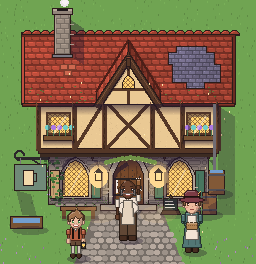
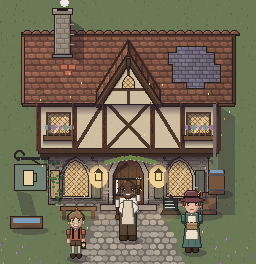
Mute the world palette: earthy, desaturated colours; liveliness from detail and light
Claude-Session: https://claude.ai/code/session_01NvFAa9nga9ook5zdC6nh3r

diff --git a/tools/concept_art/world_states.py b/tools/concept_art/world_states.py
@@ -88,7 +88,7 @@ def scene(state):
     ruined, before, after = state == "ruined", state == "before", state == "reclaimed"
 
     # ---------------- ground and cobbles
-    grass = (110, 168, 80) if not ruined else (120, 112, 104)
+    grass = (108, 132, 84) if not ruined else (120, 112, 104)
     d.rectangle((0, 0, W, H), fill=grass)
     for _ in range(1000):
         x, y = rnd.randrange(W), rnd.randrange(H)
@@ -107,11 +107,11 @@ def scene(state):
                 d.rounded_rectangle((xx, yy, xx + rnd.randrange(5, 8), yy + 4), 2, fill=shade(cob, rnd.choice([0.92, 1.0, 1.08])))
 
     # ---------------- palette: limewashed ochre plaster, dark oak, red clay tiles, rubble stone
-    plaster = (232, 204, 146) if not ruined else (176, 164, 140)
+    plaster = (214, 198, 164) if not ruined else (176, 164, 140)
     oak = (84, 56, 38) if not ruined else (62, 48, 40)
     stone = (152, 142, 128)
-    roof = (172, 70, 52) if not ruined else (118, 64, 54)
-    shutter = (70, 120, 96)
+    roof = (146, 86, 66) if not ruined else (118, 64, 54)
+    shutter = (94, 108, 96)
 
     # ground floor: rubble stone
     d.rectangle((48, 152, 208, 204), fill=stone, outline=INK)
@@ -144,7 +144,7 @@ def scene(state):
             d.polygon([(x0 + 2, 186), (x0 + 9, 186), (x0 + 4, 194)], fill=(150, 170, 180))
             d.polygon([(x0 - 12, 178), (x0 - 2, 182), (x0 - 4, 204), (x0 - 14, 200)], fill=shade(shutter, 0.7), outline=INK)  # shutter fallen
         else:
-            glass_pane(im, arch, (255, 214, 110), (150, 110, 60), INK)
+            glass_pane(im, arch, (232, 198, 132), (150, 110, 60), INK)
             sh = shutter if not (after and x0 == 62) else (196, 160, 110)        # one fresh, unpainted shutter
             d.rectangle((x0 - 12, 170, x0 - 3, 198), fill=sh, outline=INK); d.rectangle((x0 + 29, 170, x0 + 38, 198), fill=shutter, outline=INK)
             for xx in (x0 - 9, x0 + 32):
@@ -181,17 +181,17 @@ def scene(state):
                 for i, dy in enumerate((4, 11, 17)):
                     d.line([(x0 - 3, 112 + dy + i), (x0 + 27, 112 + dy - 3 + i)], fill=(140, 100, 64), width=4)
         else:
-            glass_pane(im, [(box[0], box[1]), (box[2], box[1]), (box[2], box[3]), (box[0], box[3])], (255, 214, 110), (150, 110, 60), oak)
+            glass_pane(im, [(box[0], box[1]), (box[2], box[1]), (box[2], box[3]), (box[0], box[3])], (232, 198, 132), (150, 110, 60), oak)
             d.rectangle(box, outline=oak, width=2)
         bc = (120, 84, 50) if not ruined else (80, 60, 44)
         d.rectangle((x0 - 3, 135, x0 + 27, 140), fill=bc, outline=INK)
         if before:
             for i in range(6):
-                d.ellipse((x0 - 2 + i * 5, 131, x0 + 2 + i * 5, 135), fill=rnd.choice([(220, 60, 60), (240, 200, 70), (230, 120, 160)]))
+                d.ellipse((x0 - 2 + i * 5, 131, x0 + 2 + i * 5, 135), fill=rnd.choice([(164, 84, 74), (196, 170, 108), (170, 124, 132)]))
         if after:
             for i in range(5):
                 d.line([(x0 + 1 + i * 6, 135), (x0 + 1 + i * 6, 129)], fill=(70, 120, 80))
-                d.ellipse((x0 - 1 + i * 6, 125, x0 + 3 + i * 6, 129), fill=rnd.choice([(170, 120, 230), (110, 210, 200)]))
+                d.ellipse((x0 - 1 + i * 6, 125, x0 + 3 + i * 6, 129), fill=rnd.choice([(150, 120, 176), (116, 164, 158)]))
 
     # ---------------- roof, top-down 3/4: front slope + a front gable whose slopes run away from us
     roofs.slope(im, [(24, 34), (232, 34), (232, 104), (24, 104)], roof, "tile", seed=2)
@@ -231,7 +231,7 @@ def scene(state):
     if ruined:
         d.polygon(gothic_arch(122, 134, 82, 88), fill=(36, 30, 34), outline=INK)
     else:
-        glass_pane(im, gothic_arch(122, 134, 82, 88), (255, 214, 110), (150, 110, 60), INK)
+        glass_pane(im, gothic_arch(122, 134, 82, 88), (232, 198, 132), (150, 110, 60), INK)
     roofs.bargeboards(im, (96, 107), (128, 58), (160, 107), oak)
 
     # ---------------- wrought-iron sign bracket with a scroll, hanging board
@@ -279,21 +279,21 @@ def scene(state):
             continue
         if after:
             d.ellipse((lx - 9, 165, lx + 9, 187), fill=(255, 226, 150))
-        d.rectangle((lx - 3, 172, lx + 3, 180), fill=(255, 214, 110) if before else (255, 200, 90), outline=INK)
+        d.rectangle((lx - 3, 172, lx + 3, 180), fill=(232, 198, 132) if before else (255, 200, 90), outline=INK)
         d.polygon([(lx - 4, 172), (lx + 4, 172), (lx, 168)], fill=iron)
     # harvest fair decorations
     if before:
         for i, x in enumerate(range(30, 226, 10)):
             y = 156 + int(4 * abs((x - 128) / 98))
-            d.polygon([(x, y), (x + 8, y), (x + 4, y + 7)], fill=[(220, 60, 60), (240, 200, 70), (70, 130, 200), (90, 170, 90)][i % 4])
+            d.polygon([(x, y), (x + 8, y), (x + 4, y + 7)], fill=[(164, 84, 74), (196, 170, 108), (98, 116, 140), (112, 134, 98)][i % 4])
         for wx in (92, 164):
             for k in range(5):
                 d.line([(wx + k - 2, 214), (wx + k * 2 - 4, 198)], fill=(214, 176, 80))
             d.ellipse((wx - 6, 192, wx + 6, 202), fill=(226, 190, 96))
-            d.line([(wx - 4, 206), (wx + 4, 206)], fill=(176, 50, 44), width=2)
+            d.line([(wx - 4, 206), (wx + 4, 206)], fill=(140, 70, 60), width=2)
         d.rectangle((196, 228, 218, 240), fill=(196, 150, 96), outline=INK)
         for k in range(4):
-            d.ellipse((198 + k * 4, 224, 202 + k * 4, 228), fill=(210, 50, 50))
+            d.ellipse((198 + k * 4, 224, 202 + k * 4, 228), fill=(160, 74, 62))
     if after:
         d.line([(116, 180), (116, 192)], fill=(240, 236, 228), width=2); d.point((116, 193), fill=(214, 176, 80))
         d.line([(140, 178), (140, 186)], fill=(90, 70, 50)); d.rectangle((139, 186, 141, 190), fill=(232, 224, 200))
@@ -317,11 +317,11 @@ def scene(state):
 
     # ---------------- mood grading
     if before:
-        grade(im, sat=1.12, bright=1.03, tint=(1.04, 1.0, 0.94))
+        grade(im, sat=0.8, bright=1.0, tint=(1.03, 1.0, 0.94))
     elif ruined:
-        grade(im, sat=0.45, bright=0.86, tint=(0.92, 0.95, 1.08))
+        grade(im, sat=0.32, bright=0.84, tint=(0.94, 0.96, 1.06))
     else:
-        grade(im, sat=0.95, bright=1.0, tint=(1.02, 0.99, 1.0))
+        grade(im, sat=0.7, bright=0.98, tint=(1.02, 0.99, 0.97))
     if ruined:  # the strange world creeping in stays vivid against the grey
         d = ImageDraw.Draw(im)
         prnd = random.Random(11)
@@ -468,7 +468,7 @@ if __name__ == "__main__":
 
 
 # ---------------------------------------------------------------- the architectural range
-def ground(d, rnd, grass=(110, 168, 80)):
+def ground(d, rnd, grass=(108, 132, 84)):
     d.rectangle((0, 0, W, H), fill=grass)
     for _ in range(1000):
         x, y = rnd.randrange(W), rnd.randrange(H)
@@ -488,7 +488,7 @@ def cottage():
     d.rectangle((10, 212, 70, 250), fill=(120, 86, 56))
     for y in range(216, 250, 8):
         for x in range(14, 68, 8):
-            d.ellipse((x, y, x + 5, y + 4), fill=rnd.choice([(80, 150, 70), (100, 170, 80)]))
+            d.ellipse((x, y, x + 5, y + 4), fill=rnd.choice([(92, 120, 76), (106, 132, 84)]))
     for x in range(4, 252, 6):
         if 98 < x < 154:
             continue
@@ -504,17 +504,17 @@ def cottage():
         d.rectangle((x - 2, 132, x + 2, 196), fill=oak)
     d.line([(58, 194), (102, 140)], fill=oak, width=3); d.line([(198, 194), (154, 140)], fill=oak, width=3)
     # round-topped door painted blue, small shuttered windows
-    d.rounded_rectangle((114, 152, 142, 206), 12, fill=(70, 110, 160), outline=INK)
+    d.rounded_rectangle((114, 152, 142, 206), 12, fill=(88, 102, 118), outline=INK)
     for x in (121, 128, 135):
-        d.line([(x, 156), (x, 204)], fill=(56, 92, 136))
+        d.line([(x, 156), (x, 204)], fill=(74, 86, 100))
     d.ellipse((136, 180, 139, 183), fill=(60, 56, 56))
     for x0 in (70, 162):
-        d.rectangle((x0, 156, x0 + 24, 178), fill=(255, 214, 110), outline=INK)
+        d.rectangle((x0, 156, x0 + 24, 178), fill=(232, 198, 132), outline=INK)
         d.line([(x0 + 12, 156), (x0 + 12, 178)], fill=oak, width=2); d.line([(x0, 167), (x0 + 24, 167)], fill=oak, width=2)
-        d.rectangle((x0 - 9, 154, x0 - 2, 180), fill=(170, 70, 60), outline=INK); d.rectangle((x0 + 26, 154, x0 + 33, 180), fill=(170, 70, 60), outline=INK)
+        d.rectangle((x0 - 9, 154, x0 - 2, 180), fill=(128, 84, 72), outline=INK); d.rectangle((x0 + 26, 154, x0 + 33, 180), fill=(128, 84, 72), outline=INK)
         d.rectangle((x0 - 2, 179, x0 + 26, 184), fill=(120, 84, 50), outline=INK)
         for i in range(5):
-            d.ellipse((x0 + i * 5, 175, x0 + i * 5 + 4, 179), fill=rnd.choice([(220, 60, 60), (240, 200, 70), (230, 120, 160)]))
+            d.ellipse((x0 + i * 5, 175, x0 + i * 5 + 4, 179), fill=rnd.choice([(164, 84, 74), (196, 170, 108), (170, 124, 132)]))
     # thatch, top-down 3/4: a deep front slope with softened corners, a block-cut ridge and a thick eave roll
     thatch = (198, 162, 94)
     roofs.slope(im, [(38, 62), (44, 50), (56, 44), (200, 44), (212, 50), (218, 62), (220, 128), (36, 128)], thatch, "thatch", seed=6)
@@ -523,7 +523,7 @@ def cottage():
         d.point((x, y), fill=(98, 124, 60)); d.point((x + 1, y), fill=(120, 110, 70))
     # eyebrow dormer: the thatch rolls up and over Pip's window
     roofs.slope(im, [(104, 112), (110, 98), (120, 92), (136, 92), (146, 98), (152, 112)], shade(thatch, 1.08), "thatch", seed=8)
-    d.rectangle((118, 102, 138, 116), fill=(255, 214, 110), outline=INK)
+    d.rectangle((118, 102, 138, 116), fill=(232, 198, 132), outline=INK)
     d.line([(128, 102), (128, 116)], fill=(84, 56, 38), width=2)
     d.ellipse((121, 106, 126, 111), fill=(255, 240, 170))                         # the lantern
     d.line([(116, 101), (140, 101)], fill=shade(thatch, 0.55), width=2)            # shadow under the eyebrow
@@ -555,7 +555,7 @@ def cottage():
         if name == "Mira Wainwright":
             c["hat"] = (None,)
         im.alpha_composite(town.character(c), (x, y))
-    grade(im, sat=1.1, bright=1.02, tint=(1.03, 1.0, 0.95))
+    grade(im, sat=0.78, bright=1.0, tint=(1.03, 1.0, 0.95))
     return im
 
 
@@ -596,7 +596,7 @@ def abbey():
     # rose window with stained glass
     cx, cy, r = 128, 104, 22
     d.ellipse((cx - r - 3, cy - r - 3, cx + r + 3, cy + r + 3), fill=shade(stone, 1.12), outline=INK)
-    cols = [(180, 50, 60), (60, 90, 170), (220, 180, 70), (70, 140, 90)]
+    cols = [(140, 74, 72), (78, 92, 128), (184, 158, 96), (88, 118, 96)]
     for i in range(12):
         d.pieslice((cx - r, cy - r, cx + r, cy + r), i * 30, i * 30 + 30, fill=cols[i % 4], outline=(50, 46, 50))
     d.ellipse((cx - 6, cy - 6, cx + 6, cy + 6), fill=(240, 220, 150), outline=(50, 46, 50))
@@ -620,12 +620,12 @@ def abbey():
         d.rectangle((x0, 226, x0 + 44, 254), fill=(120, 86, 56), outline=INK)
         for _ in range(24):
             x, y = rnd.randrange(x0 + 3, x0 + 41), rnd.randrange(229, 252)
-            d.point((x, y), fill=rnd.choice([(90, 150, 80), (150, 120, 190), (230, 210, 120)]))
+            d.point((x, y), fill=rnd.choice([(100, 126, 84), (138, 120, 156), (196, 180, 128)]))
     d.rectangle((20, 180, 26, 214), fill=dark, outline=INK); d.rectangle((14, 188, 32, 194), fill=dark, outline=INK)
     byname = {c["name"]: c for c in town.TOWN}
     for name, x, y in (("Father Aldous", 104, 168), ("Brother Fennick", 144, 172), ("Sabine Marsh", 216, 178)):
         im.alpha_composite(town.character(byname[name]), (x, y))
-    grade(im, sat=1.05, bright=1.0, tint=(1.0, 1.0, 1.02))
+    grade(im, sat=0.78, bright=0.98, tint=(1.01, 1.0, 1.0))
     return im
 
 
@@ -642,7 +642,7 @@ def range_sheet():
     sheet = Image.new("RGBA", (30 + 3 * (W * S + 24), 110 + H * S + 80), (243, 234, 214, 255))
     d = ImageDraw.Draw(sheet)
     d.text((30, 22), "Hollowmere's architecture: rustic to gothic", font=title, fill=(58, 42, 26))
-    d.text((30, 60), "High-medieval northern Europe (think Rothenburg, Colmar, York's Shambles, Bruges): lively colours on old stone and timber.", font=reg, fill=(90, 74, 58))
+    d.text((30, 60), "High-medieval northern Europe (Rothenburg, Colmar, York's Shambles, Bruges). Muted, earthy palette: life comes from detail, light and people, not saturation.", font=reg, fill=(90, 74, 58))
     for i, (im, label, sub) in enumerate(panels):
         x = 30 + i * (W * S + 24)
         sheet.alpha_composite(im.resize((W * S, H * S), Image.NEAREST), (x, 96))

diff --git a/docs/ART.md b/docs/ART.md
@@ -75,7 +75,7 @@ Concept: [tankard_states.png](concept-art/world/tankard_states.png), generated b
 | Decor (bunting, flowers, wheat / strange plants, charms) | festival set | | new-normal set |
 | Props (barrels, benches, crates / rubble) | ✓ | rubble set | ✓ |
 | Lights (windows, lanterns, Hope glow) | warm | off | warm + gold |
-| Colour grading | warm, +saturation | cold, −saturation | neutral-warm |
+| Colour grading | warm, ~80% saturation | cold, ~30% saturation | neutral-warm, ~70% saturation |
 | People, smoke, birds, cats | many | none | grows with population |
 
 **Per-building progress between states:** Ruined → **Cleared** (rubble gone) → **Patched** (boards, temporary roof, people can use it) → **Reclaimed** (decorated, lit) → optional **Upgrades**. Each step is an overlay toggle, usually one or two new sprites, not a new building.
@@ -98,7 +98,7 @@ Concept: [tankard_states.png](concept-art/world/tankard_states.png), generated b
 | Openings | small square windows, painted shutters, round-topped plank door | **pointed arches** on the ground floor, leaded diamond-pane casements upstairs | great pointed portal, rose window, stained-glass lancets |
 | Details | woodpile, bread oven, wattle fence, veg patch | wrought-iron sign bracket, flower boxes, hops garland, rain barrel, chalkboard | gargoyles, carved stone cross, herb beds |
 
-**Keeping it lively:** limewash in warm tints (ochre, cream, pale rose, sage), painted shutters and doors (green, blue, red), flowers in every window box, bunting and lanterns, smoke from chimneys.
+**Muted, not garish (Graveyard Keeper, not a cartoon):** the palette is earthy and slightly desaturated: olive grass, weathered terracotta, oat-coloured limewash, grey-green and slate-blue paint, dusty reds. Liveliness comes from **detail, warm light, smoke, flowers, bunting and people**, not from saturated colour. Even the Harvest Fair (the brightest the town ever looks) stays muted; the ruined state drops to near-grey; the reclaimed state sits in between.
 
 **Detail and shadows (the Tankard is the reference):** light comes from the **top left**. Every protruding thing casts a soft shadow down and to the right:
 - eaves shadow on the upper wall, a deep shadow under the jetty, shadows under brackets, sills and flower boxes;
